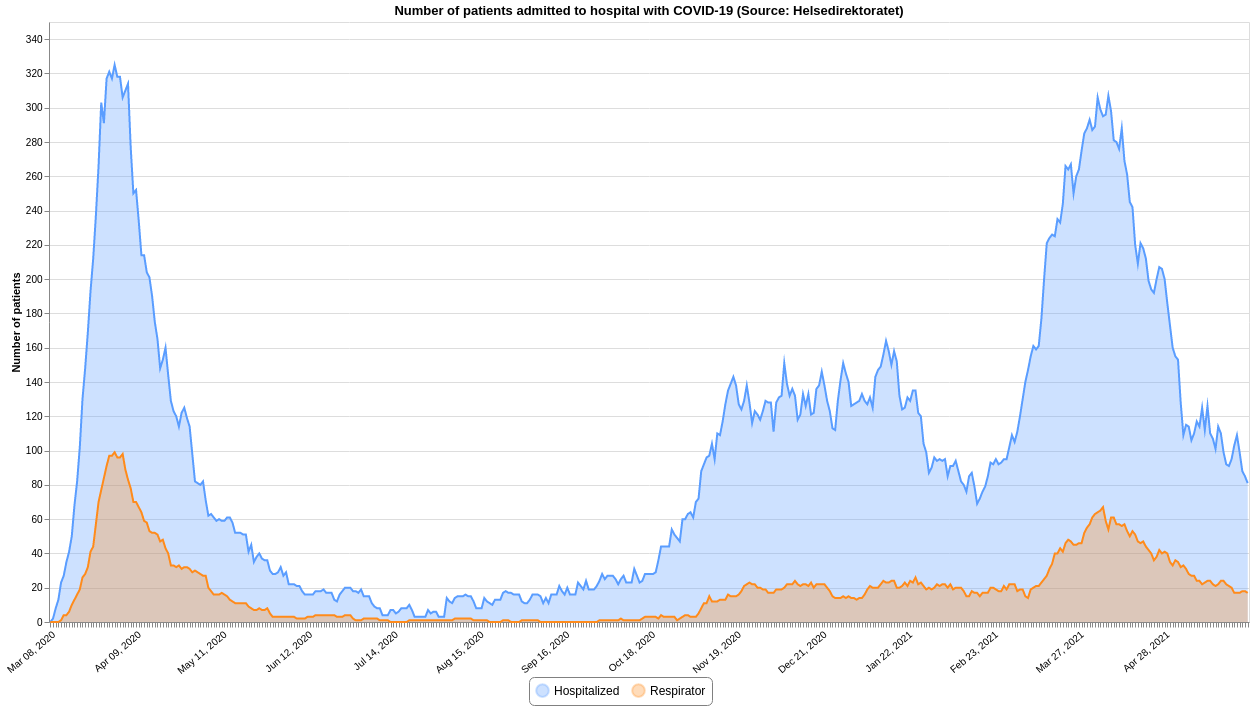
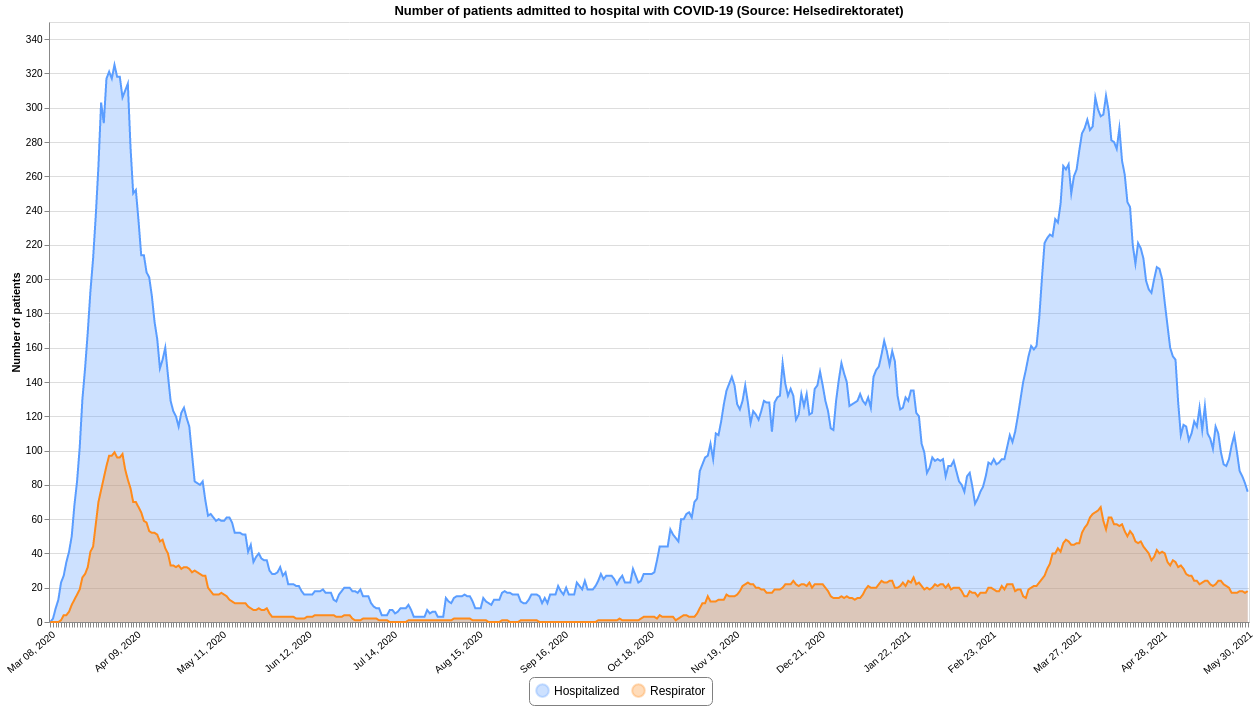
Updated 2021-05-30 12:50

diff --git a/README.md b/README.md
@@ -12,7 +12,7 @@ This repository contains datasets of daily time-series data related to COVID-19 
 | :--- | :--- | :--- | :--- | :--- |
 |[Confirmed](#confirmedcsv)|FHI / MSIS|2021-05-30 00:10:47+02:00|[<center>csv</center>](https://raw.githubusercontent.com/frefrik/c19norge-data/main/data/confirmed.csv)|[<center>preview</center>](data/confirmed.csv)|
 |[Dead](#deadcsv)|FHI|2021-05-28 13:20:55+02:00|[<center>csv</center>](https://raw.githubusercontent.com/frefrik/c19norge-data/main/data/dead.csv)|[<center>preview</center>](data/dead.csv)|
-|[Hospitalized](#hospitalizedcsv)|Helsedirektoratet|2021-05-29 12:50:48+02:00|[<center>csv</center>](https://raw.githubusercontent.com/frefrik/c19norge-data/main/data/hospitalized.csv)|[<center>preview</center>](data/hospitalized.csv)|
+|[Hospitalized](#hospitalizedcsv)|Helsedirektoratet|2021-05-30 12:50:46+02:00|[<center>csv</center>](https://raw.githubusercontent.com/frefrik/c19norge-data/main/data/hospitalized.csv)|[<center>preview</center>](data/hospitalized.csv)|
 |[Tested](#testedcsv)|FHI|2021-05-28 13:00:49+02:00|[<center>csv</center>](https://raw.githubusercontent.com/frefrik/c19norge-data/main/data/tested.csv)|[<center>preview</center>](data/tested.csv)|
 |[Tested Lab](#tested_labcsv)|FHI|2021-05-28 13:20:50+02:00|[<center>csv</center>](https://raw.githubusercontent.com/frefrik/c19norge-data/main/data/tested_lab.csv)|[<center>preview</center>](data/tested_lab.csv)|
 |[Transport](#transportcsv)|FHI|2021-05-27 13:30:56+02:00|[<center>csv</center>](https://raw.githubusercontent.com/frefrik/c19norge-data/main/data/transport.csv)|[<center>preview</center>](data/transport.csv)|
